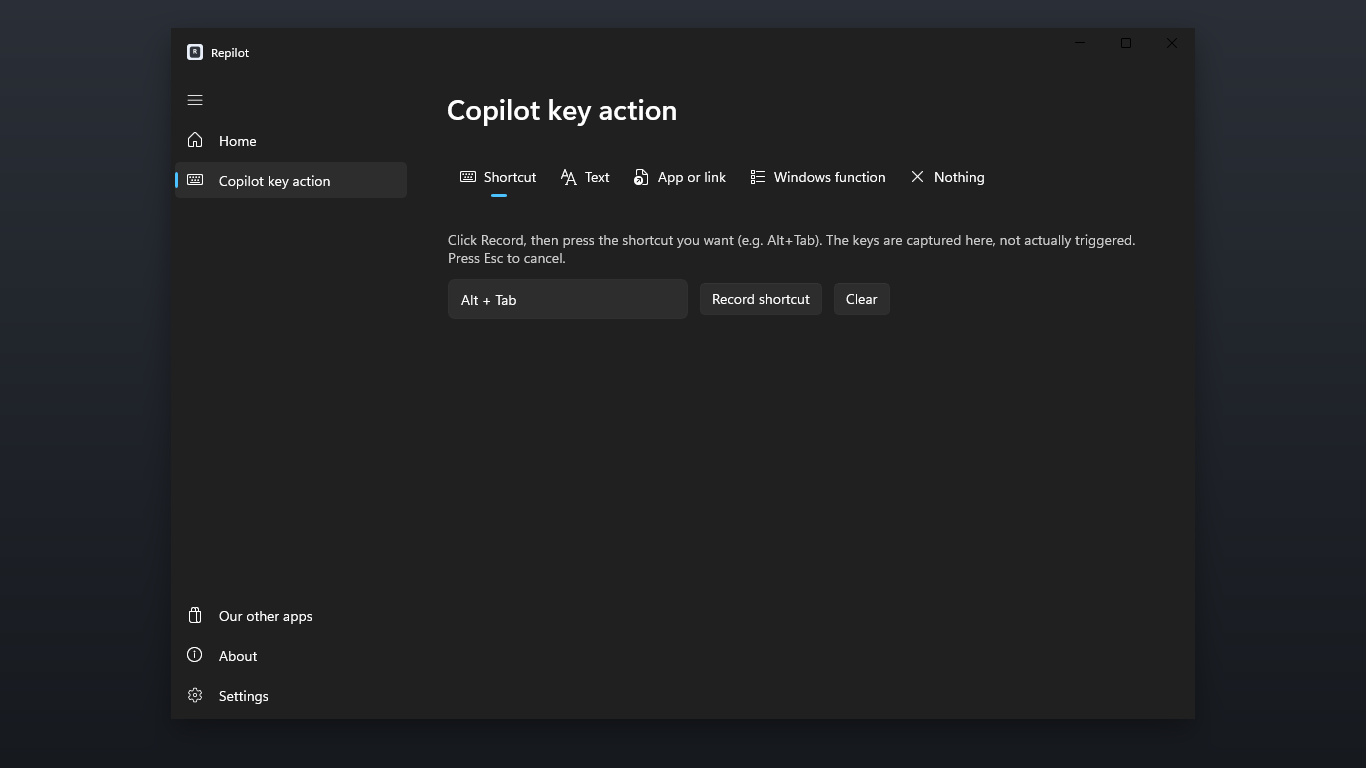
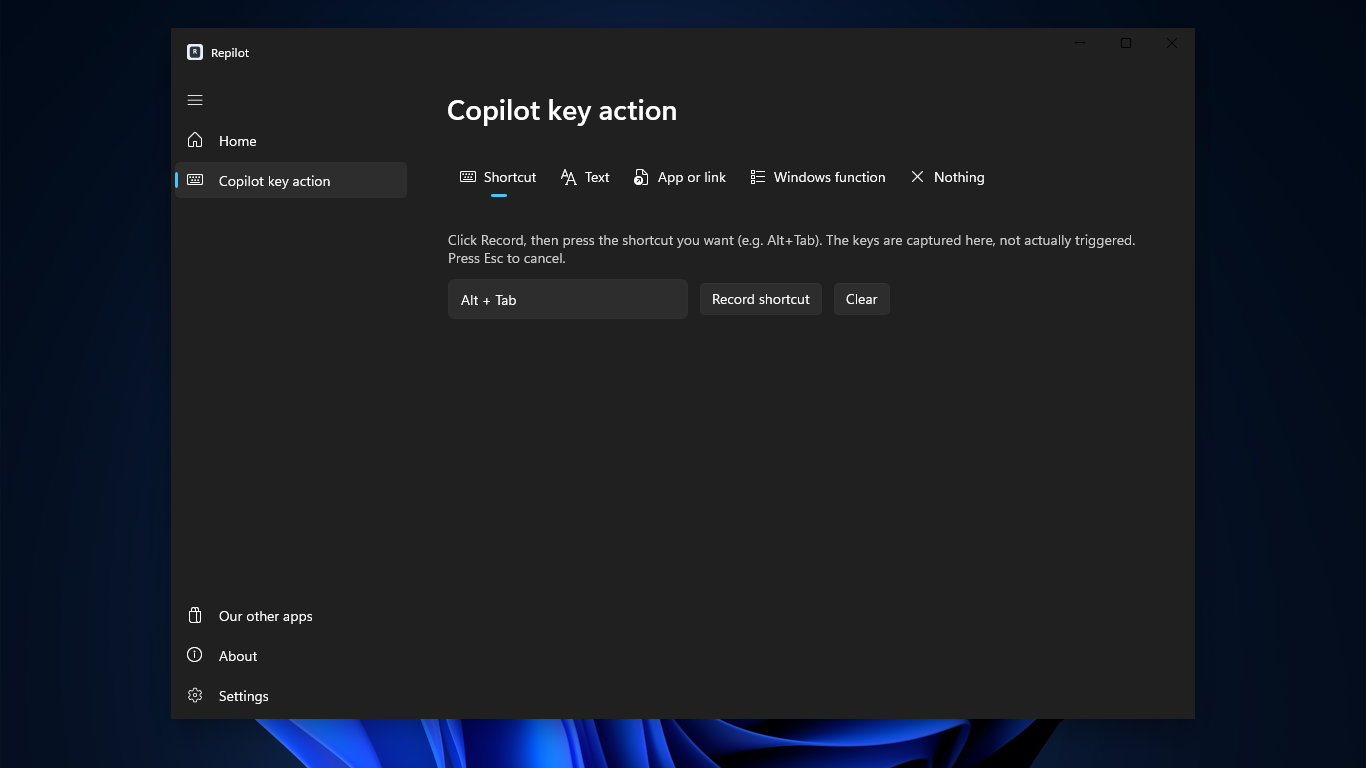
Show every Store screenshot in dark mode on the Windows wallpaper
The listing screenshots now follow LIST-8's look: each capture in the dark
theme, centred at 1:1 on the Windows 11 default dark wallpaper. Home, Text
and Windows function were recaptured in dark; the files and manifest
entries are renamed to -dark, and the README embeds follow.

The renderer moved to winui-app-kit so every app shares it: the kit pin
moves to v1.21.1, the shots scripts call the kit's renderer, and the local
copy is deleted. Its check is stricter: exact size, 8-bit RGB, dark only,
and captions matching the en-US screenshotCaptions.

Changed region(s): [[0.0, 0.0, 1.0, 0.7188], [0.1537, 0.9375, 0.7687, 1.0]]

diff --git a/store-assets/README.md b/store-assets/README.md
@@ -11,9 +11,9 @@
 
 Captured from the real installed app with synthetic settings, never from a personal machine (LIST-8). The captions in `manifest.json` are the en-US `screenshotCaptions` in `listings.json`, in the same order and count; each other locale has its own translation there.
 
-1. **Capture** on the Windows 11 test VM with the windows-build-tools app-test recipe: install a dev package, then run the capture script (`shots.ps1`, kept with the release-prep notes) in the desktop session. It writes each shot's settings (theme, action), opens the window at 1040 x 700 and saves the window only. Copy the results into `raw/microsoft/` under the manifest's names.
-2. **Render** with `npm run shots:render`: each raw capture is centred at 1:1, never scaled, on a 1366 x 768 background in its theme and written without an alpha channel to `microsoft/screenshots/` (ASSET-9). Reframing or recaptioning needs no recapture.
-3. **Check** with `npm run check:screenshots` (part of `npm run validate`): every manifest entry exists at 1366 x 768 or larger with a caption and alt text, no stray file is present, and the count is 1 to 10.
+1. **Capture** on the Windows 11 test VM with the windows-build-tools app-test recipe: install a dev package, then run the capture script (`shots.ps1`, kept with the release-prep notes) in the desktop session. It writes each shot's settings (dark theme, action), opens the window at 1040 x 700 and saves the window only. Copy the results into `raw/microsoft/` under the manifest's names.
+2. **Render** with `npm run shots:render` (winui-app-kit's renderer; its README has the rules): each raw capture is centred at 1:1, never scaled, on the Windows 11 default dark wallpaper at 1366 x 768 and written without an alpha channel to `microsoft/screenshots/` (ASSET-9). Every shot is in dark mode (LIST-8). The wallpaper is read from the Windows install at render time and never committed. Reframing or recaptioning needs no recapture.
+3. **Check** with `npm run check:screenshots` (part of `npm run validate`): every manifest entry is dark and exists at exactly 1366 x 768 as 8-bit RGB without alpha, with a caption and alt text; the captions match the en-US `screenshotCaptions`; no stray file is present; and the count is 1 to 10.
 4. **Sync** to Partner Center with the next submission: the files in order and each locale's captions from `listings.json`. Listing images go into the same upload archive as that submission's package, never a separate upload: a second archive replaces the package the release run uploaded (seen with 1.1.0).
 
 A UI change that shows in a screenshot means recapturing that shot; the release skill's checklist says when.

diff --git a/README.md b/README.md
@@ -15,11 +15,11 @@
 </p>
 
 <p align="center">
-  <img src="store-assets/microsoft/screenshots/00-home-light.png" alt="Repilot's Home page: the Copilot key is assigned to Repilot and set to Task View" width="250">
+  <img src="store-assets/microsoft/screenshots/00-home-dark.png" alt="Repilot's Home page: the Copilot key is assigned to Repilot and set to Task View" width="250">
   &nbsp;
   <img src="store-assets/microsoft/screenshots/01-shortcut-dark.png" alt="Map the Copilot key to a keyboard shortcut such as Alt + Tab" width="250">
   &nbsp;
-  <img src="store-assets/microsoft/screenshots/02-text-light.png" alt="Map the Copilot key to typing a phrase" width="250">
+  <img src="store-assets/microsoft/screenshots/02-text-dark.png" alt="Map the Copilot key to typing a phrase" width="250">
 </p>
 
 Repilot lets you choose what your keyboard's dedicated **Copilot key** (or **Windows logo key + C**) does. It uses Microsoft's official "Copilot hardware key provider" support, so it appears right in **Settings > Bluetooth & devices > Keyboard > Customize Copilot key**.
